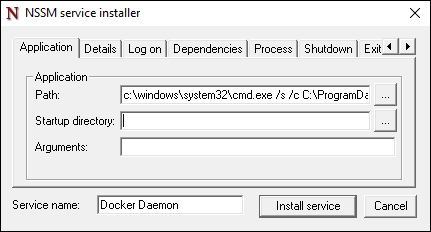
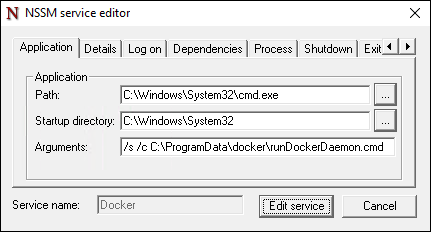
Updating Docker Doc

diff --git a/virtualization/windowscontainers/user_guide/docker_windows.md b/virtualization/windowscontainers/user_guide/docker_windows.md
@@ -6,6 +6,8 @@ The Docker Daemon and Client are not shipped with Windows out of the box, rather
 
 ## Install the Docker Client / Daemon for Windows:
 
+The Docker Daemon and Client have been developed in the Go language. At this time, docker.exe does not install as a Windows Service. There are several methods that can be used to create a service, we will give one example here using nssm.exe. 
+
 Download docker.exe from "https://aka.ms/ContainerTools" and copy it into **c:\windows\system32** of your container host.
 
 Create a folder **c:\programdata\docker** and copy **runDockerDaemon.cmd** into this folder.
@@ -14,8 +16,22 @@ Download nssm.exe from https://nssm.cc/release/nssm-2.24.zip, extract the files,
 
 Open a command prompt and enter **nssm install**.
 
+- **Path:** C:\Windows\System32\cmd.exe
+- **Startup Directory:** C:\Windows\System32
+- **Arguments:** /s /c C:\ProgramData\docker\runDockerDaemon.cmd
+
 ![](media/nssm1.png)
+
+- **Display name:** Docker
+- **Description:** The Docker Daemon provides management capabilities of containers for docker clients
 
 ![](media/nssm2.png)
 
+- **Output (stdout):** C:\ProgramData\docker\daemon.log
+- **Error (stderr):** C:\ProgramData\docker\daemon.log
+
+![](media/nssm3.png)
+
 ## Automated Installation of the Docker Service
+
+## Docker Daemon Startup Options
